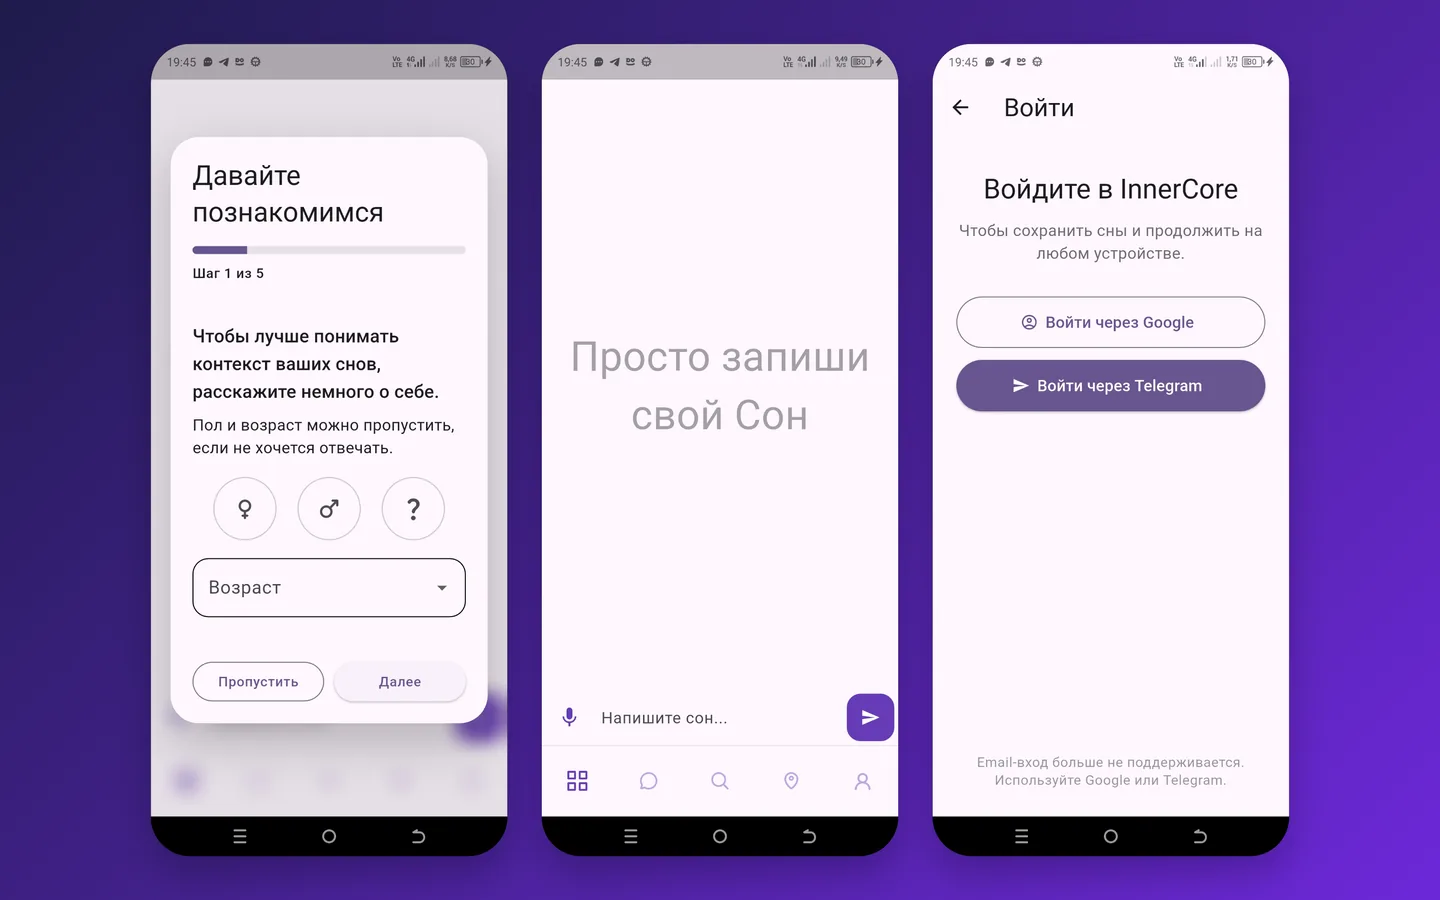
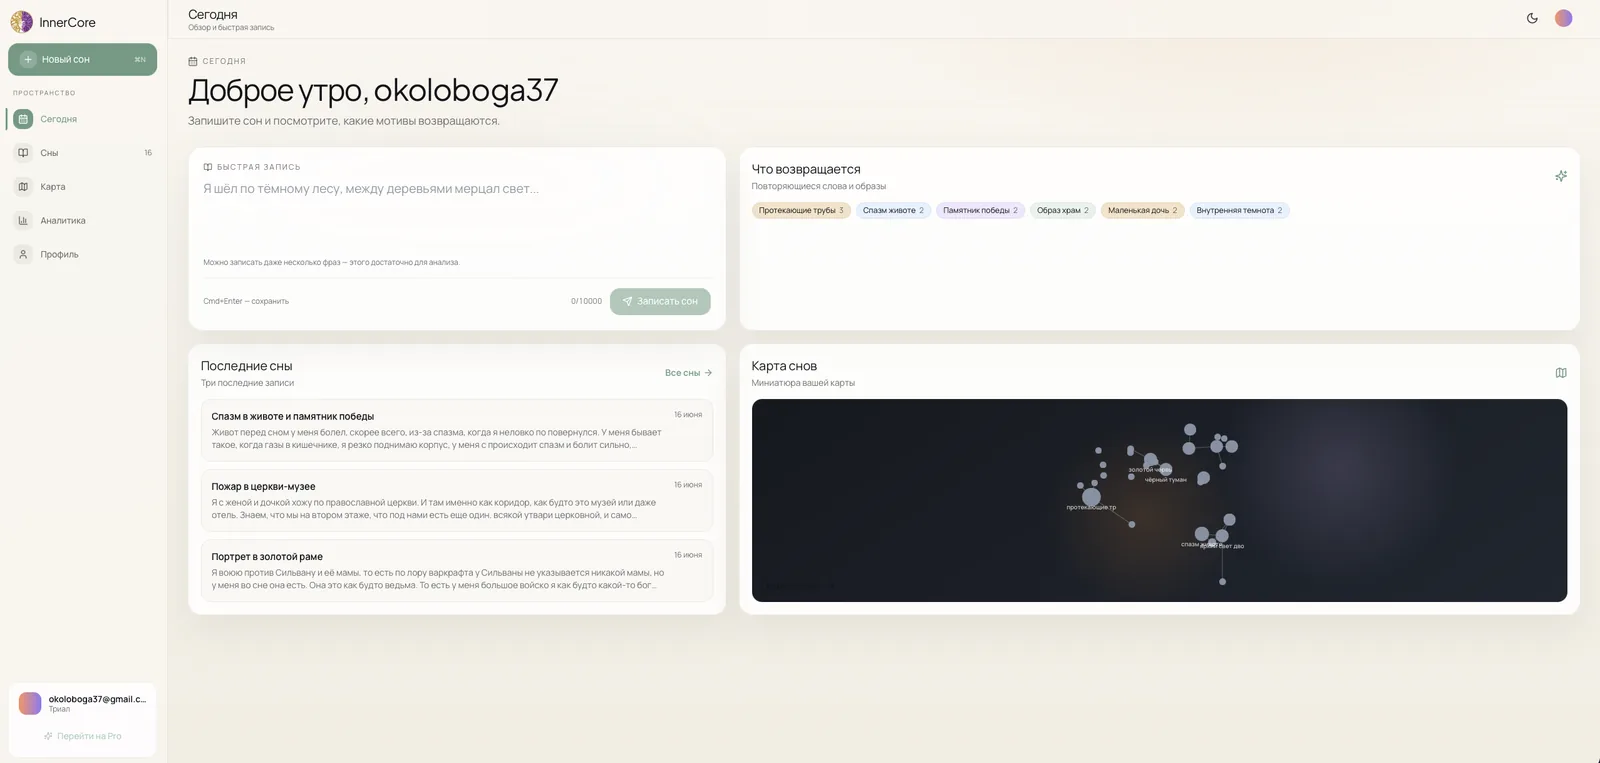
Split InnerCore into web and mobile cards
Both carry the same description and link to each other. Notify gets its
stack: TypeScript inside Telegram.

diff --git a/src/content/projects/mobile-apps/innercore/index.md b/src/content/projects/mobile-apps/innercore/index.md
@@ -1,0 +1,23 @@
+---
+title: "InnerCore — дневник снов, приложение"
+summary: "SaaS для снов: запись голосом, автоматический разбор по архетипам, чат по сну и карта символов."
+role: "продукт, архитектура, backend, AI"
+stack: [Flutter, FastAPI, PostgreSQL, Redis, Celery, MinIO, LLM, embeddings]
+period: "SaaS, развивается"
+result: "v0.3: разбор после сохранения, карта снов, голосовой ввод"
+order: 5
+shots:
+  - { file: 01.webp, alt: "Приложение InnerCore" }
+  - { file: 02.webp, alt: "Приложение InnerCore, второй экран" }
+  - { file: 03.webp, alt: "Приложение InnerCore, третий экран" }
+---
+
+Сон забывается за минуты, а вместе с ним уходит и то, что он говорил о человеке. InnerCore сохраняет сон и сразу разбирает его в юнгианской рамке: архетипы, символы, повторяющиеся мотивы.
+
+Мой участок — продукт, архитектура и backend. Клиент на Flutter под iOS и Android, за ним FastAPI, PostgreSQL, Redis, Celery и MinIO. Разбор запускается в фоне сразу после сохранения: сон появляется в списке мгновенно, а анализ досылается, когда готов, — ждать пустой экран не нужно.
+
+Языковая часть через OpenAI-совместимый прокси, эмбеддинги и расшифровка голоса — через отдельный API (`text-embedding-3-small` и `whisper-1`). Голосовой ввод — не украшение: надиктовать сон утром быстрее, чем печатать.
+
+Дальше сон живёт в системе: контекстный чат задаёт вопросы по конкретному сну, а Dream Map раскладывает символы в узлы с фильтрами по архетипам. Так через месяц видно не отдельные сны, а повторяющиеся сюжеты.
+
+Здесь снимки мобильного приложения. Веб-версия — отдельной карточкой: [InnerCore в браузере](/проекты/ai-automation/innercore/).

diff --git a/src/content/projects/ai-automation/innercore/index.md b/src/content/projects/ai-automation/innercore/index.md
@@ -1,5 +1,5 @@
 ---
-title: "InnerCore — дневник снов с юнгианским анализом"
+title: "InnerCore — дневник снов, веб-версия"
 summary: "SaaS для снов: запись голосом, автоматический разбор по архетипам, чат по сну и карта символов."
 role: "продукт, архитектура, backend, AI"
 stack: [Flutter, FastAPI, PostgreSQL, Redis, Celery, MinIO, LLM, embeddings]
@@ -7,9 +7,9 @@ period: "SaaS, развивается"
 result: "v0.3: разбор после сохранения, карта снов, голосовой ввод"
 order: 5
 shots:
-  - { file: 01.webp, alt: "Экран InnerCore" }
-  - { file: 02.webp, alt: "Экран InnerCore, второй" }
-  - { file: 03.webp, alt: "Экран InnerCore, третий" }
+  - { file: 01.webp, alt: "Веб-версия InnerCore" }
+  - { file: 02.webp, alt: "Веб-версия InnerCore, второй экран" }
+  - { file: 03.webp, alt: "Веб-версия InnerCore, третий экран" }
 ---
 
 Сон забывается за минуты, а вместе с ним уходит и то, что он говорил о человеке. InnerCore сохраняет сон и сразу разбирает его в юнгианской рамке: архетипы, символы, повторяющиеся мотивы.
@@ -19,3 +19,5 @@ shots:
 Языковая часть через OpenAI-совместимый прокси, эмбеддинги и расшифровка голоса — через отдельный API (`text-embedding-3-small` и `whisper-1`). Голосовой ввод — не украшение: надиктовать сон утром быстрее, чем печатать.
 
 Дальше сон живёт в системе: контекстный чат задаёт вопросы по конкретному сну, а Dream Map раскладывает символы в узлы с фильтрами по архетипам. Так через месяц видно не отдельные сны, а повторяющиеся сюжеты.
+
+Здесь снимки веб-версии. Мобильная — отдельной карточкой: [InnerCore для iOS и Android](/проекты/mobile-apps/innercore/).

diff --git a/src/content/projects/mobile-apps/notify/index.md b/src/content/projects/mobile-apps/notify/index.md
@@ -1,15 +1,18 @@
 ---
-title: "Notify — календарь подписок"
+title: "Notify — календарь подписок в Telegram"
 summary: "Все списания в одном календаре: сколько уходит, куда и когда следующее, и что будет через месяц."
 role: "продукт, приложение"
+stack: [TypeScript, Telegram Mini App]
 period: "простое приложение"
 result: "подписки в одном центре"
-order: 5
+order: 6
 shots:
   - { file: 01.webp, alt: "Календарь подписок в Notify" }
 ---
 
 Подписки списывают деньги в разные дни, и вспоминаешь о них обычно после смс от банка. Notify собирает их в один календарь.
+
+Сделан как Telegram Mini App на TypeScript: открывается из мессенджера, ставить ничего не нужно.
 
 Вместо таблицы со столбцами — календарь. На каждой дате видно, что и сколько спишется, а по всему периоду считается, сколько уходит на подписки и сколько уйдёт в ближайший месяц. Так вопрос «куда уходят деньги» перестаёт быть загадкой.
 
